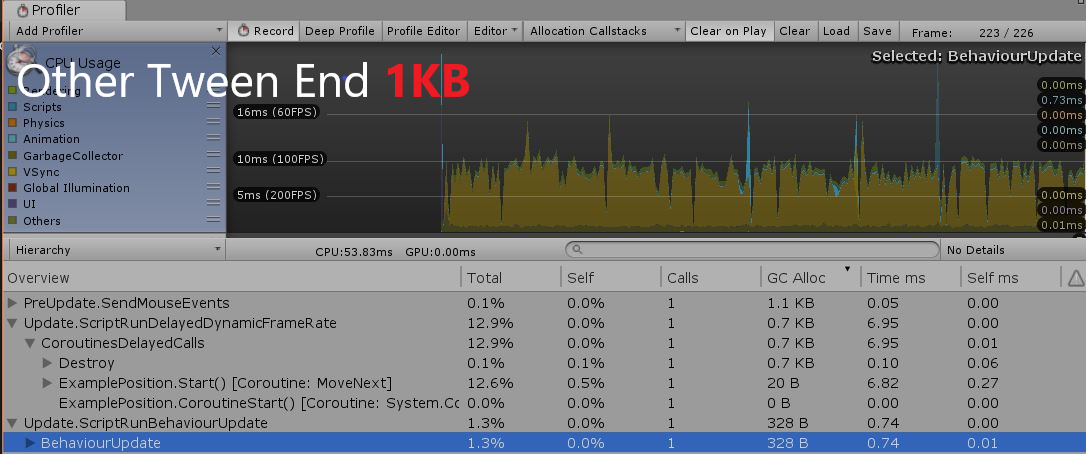
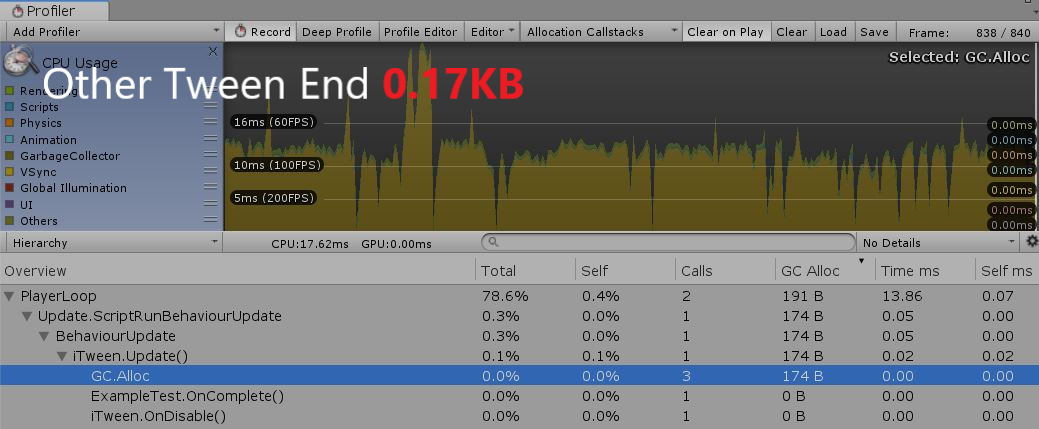
Index Update

diff --git a/Export/index.html b/Export/index.html
@@ -156,7 +156,7 @@
 
 <h2 id="lastest-release">Lastest Release</h2>
 <!--Version Start-->
-<p>Version(Alpha) 0.0.86 - <a href="https://github.com/Toki-Labs/XTween/raw/master/Bin/XTween_0.0.86.unitypackage">XTween_0.0.86.unitypackage</a></p>
+<p>Version(Alpha) 0.0.85 - <a href="https://github.com/Toki-Labs/XTween/raw/master/Bin/XTween_0.0.85.unitypackage">XTween_0.0.85.unitypackage</a></p>
 <!--Version End-->
 
 <h2 id="performance">Performance</h2>
@@ -168,7 +168,7 @@
 
   <p><img src="https://github.com/Toki-Labs/XTween/raw/master/StoreDocument/U_Tween_Start.png" alt="" />
 <img src="https://github.com/Toki-Labs/XTween/raw/master/StoreDocument/XTween_Start.png" alt="" />
-Garbage produce 1/74 than other tweener, Creation cost 1/3 than other tweener.</p>
+Garbage produce 1/12 than other tweener, Creation cost 1/10 than other tweener.</p>
 </blockquote>
 
 <blockquote>
@@ -176,7 +176,7 @@ Garbage produce 1/74 than other tweener, Creation cost 1/3 than other tweener.</
 
   <p><img src="https://github.com/Toki-Labs/XTween/raw/master/StoreDocument/U_Tween_End.png" alt="" />
 <img src="https://github.com/Toki-Labs/XTween/raw/master/StoreDocument/XTween_End.png" alt="" />
-Garbage produe 1/50 than other tweener.</p>
+XTween is don't produce garbage.</p>
 </blockquote>
 
 <blockquote>
@@ -191,23 +191,23 @@ Garbage produe 1/50 than other tweener.</p>
     <tbody>
       <tr>
         <td>Start</td>
-        <td>185.5KB</td>
-        <td>2.5KB</td>
+        <td>4.7KB</td>
+        <td>0.4KB</td>
       </tr>
       <tr>
         <td>End</td>
-        <td>1KB</td>
-        <td>0.02KB</td>
+        <td>0.17KB</td>
+        <td>0KB</td>
       </tr>
       <tr>
         <td>Total</td>
-        <td>186.5KB</td>
-        <td>2.52KB</td>
+        <td>4.9KB</td>
+        <td>0.4KB</td>
       </tr>
     </tbody>
   </table>
 
-  <p>Garbage produce 1/74 than other tweener.</p>
+  <p>Garbage produce 1/12 than other tweener.</p>
 </blockquote>
 
 <p><strong>CPU Performance</strong></p>

diff --git a/README.md b/README.md
@@ -63,21 +63,21 @@ __Garbage Alloc__
 >
 >![](https://github.com/Toki-Labs/XTween/raw/master/StoreDocument/U_Tween_Start.png)
 >![](https://github.com/Toki-Labs/XTween/raw/master/StoreDocument/XTween_Start.png)
->Garbage produce 1/74 than other tweener, Creation cost 1/3 than other tweener.
+>Garbage produce 1/12 than other tweener, Creation cost 1/10 than other tweener.
 
 >__End__
 >
 >![](https://github.com/Toki-Labs/XTween/raw/master/StoreDocument/U_Tween_End.png)
 >![](https://github.com/Toki-Labs/XTween/raw/master/StoreDocument/XTween_End.png)
->Garbage produe 1/50 than other tweener.
+>XTween is don't produce garbage.
 
 >Gabage Alloc Time|Other Tweener|XTween
 >--------|-----------|------
->Start|185.5K|2.5KB
->End|1KB|0.02KB
->Total|186.5KB|2.52KB
+>Start|4.7K|0.4KB
+>End|0.17KB|0KB
+>Total|4.9KB|0.4KB
 > 
->Garbage produce 1/74 than other tweener.
+>Garbage produce 1/12 than other tweener.
 
 __CPU Performance__
 >Compare when move 100 gameObject
@@ -293,10 +293,40 @@ tween = XTween.Repeat(tween, 3/*3 time repeat*/);
 //Reverse Tweener
 tween = XTween.Reverse(tween);
 tween.Play();
+```
 
-//When end tweener
-tween.GotoAndStop(0.5f); //Move to Tweener's 0.5sec
-tween.GotoAndPlay(0.3f); //Move to 0.3sec and play;
+Reuse
+---
+XTween is basically autodispose. when the tweener is completed or stopped.
+So, you should set to "Lock" for reuse tweener
+```csharp
+//This Tweener will not dispose when stop or complete.
+IXTween tween = gameObject.To(XHash.Position(600f,200f)).Lock().Play();
+
+//When the tweener after completed or stopped. You can reuse this.
+tween.Reset(); //Set to play position 0;
+tween.Play(); //Replay
+
+//When you are not using twin anymore. You should "Release" this tween.
+tween.Release();
+tween = null;
+```
+
+Time Control
+---
+```csharp
+//Start
+IXTween tween = gameObject.To(XHash.Position(600f,200f)).Lock().Play();
+//Stop at this position
+tween.Stop();
+//Resume
+tween.Play();
+//Move to 0.5sec and Stop
+tween.GotoAndStop(0.5f); 
+//Move to 0.3sec and play;
+tween.GotoAndPlay(0.3f); 
+//Position set to 0 and Stop
+tween.Reset();
 ```
 
 Author Info
